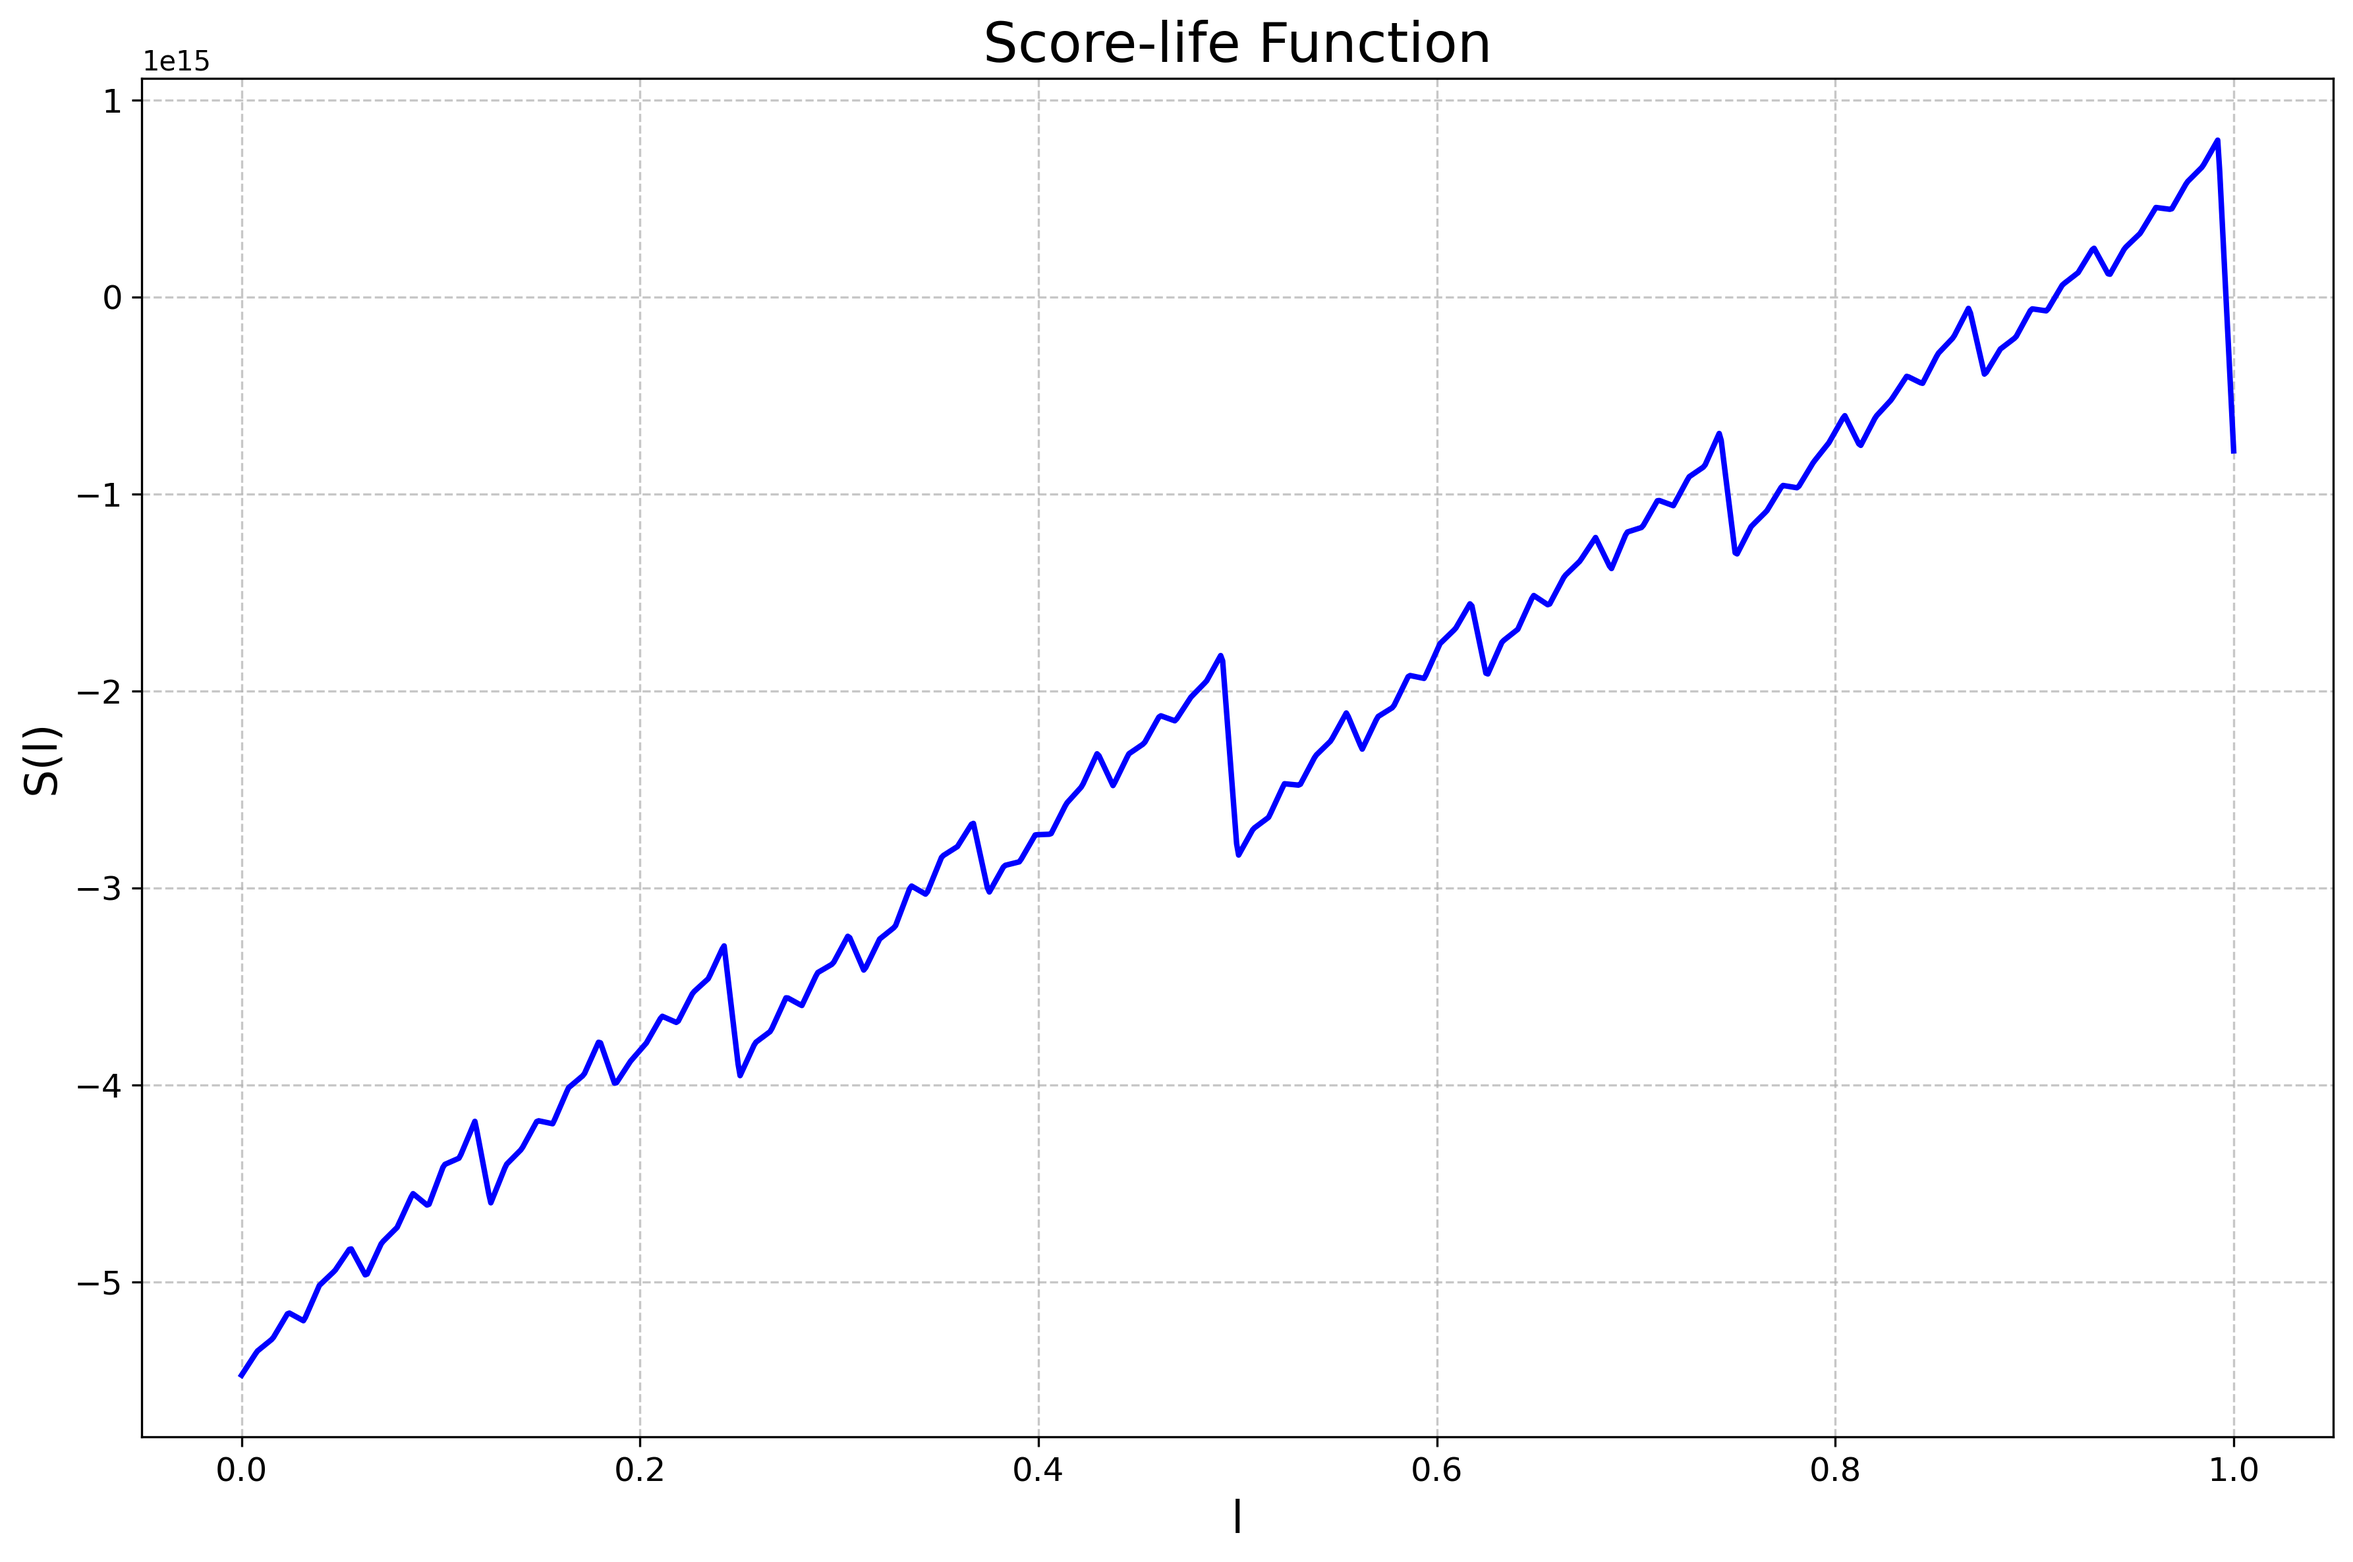
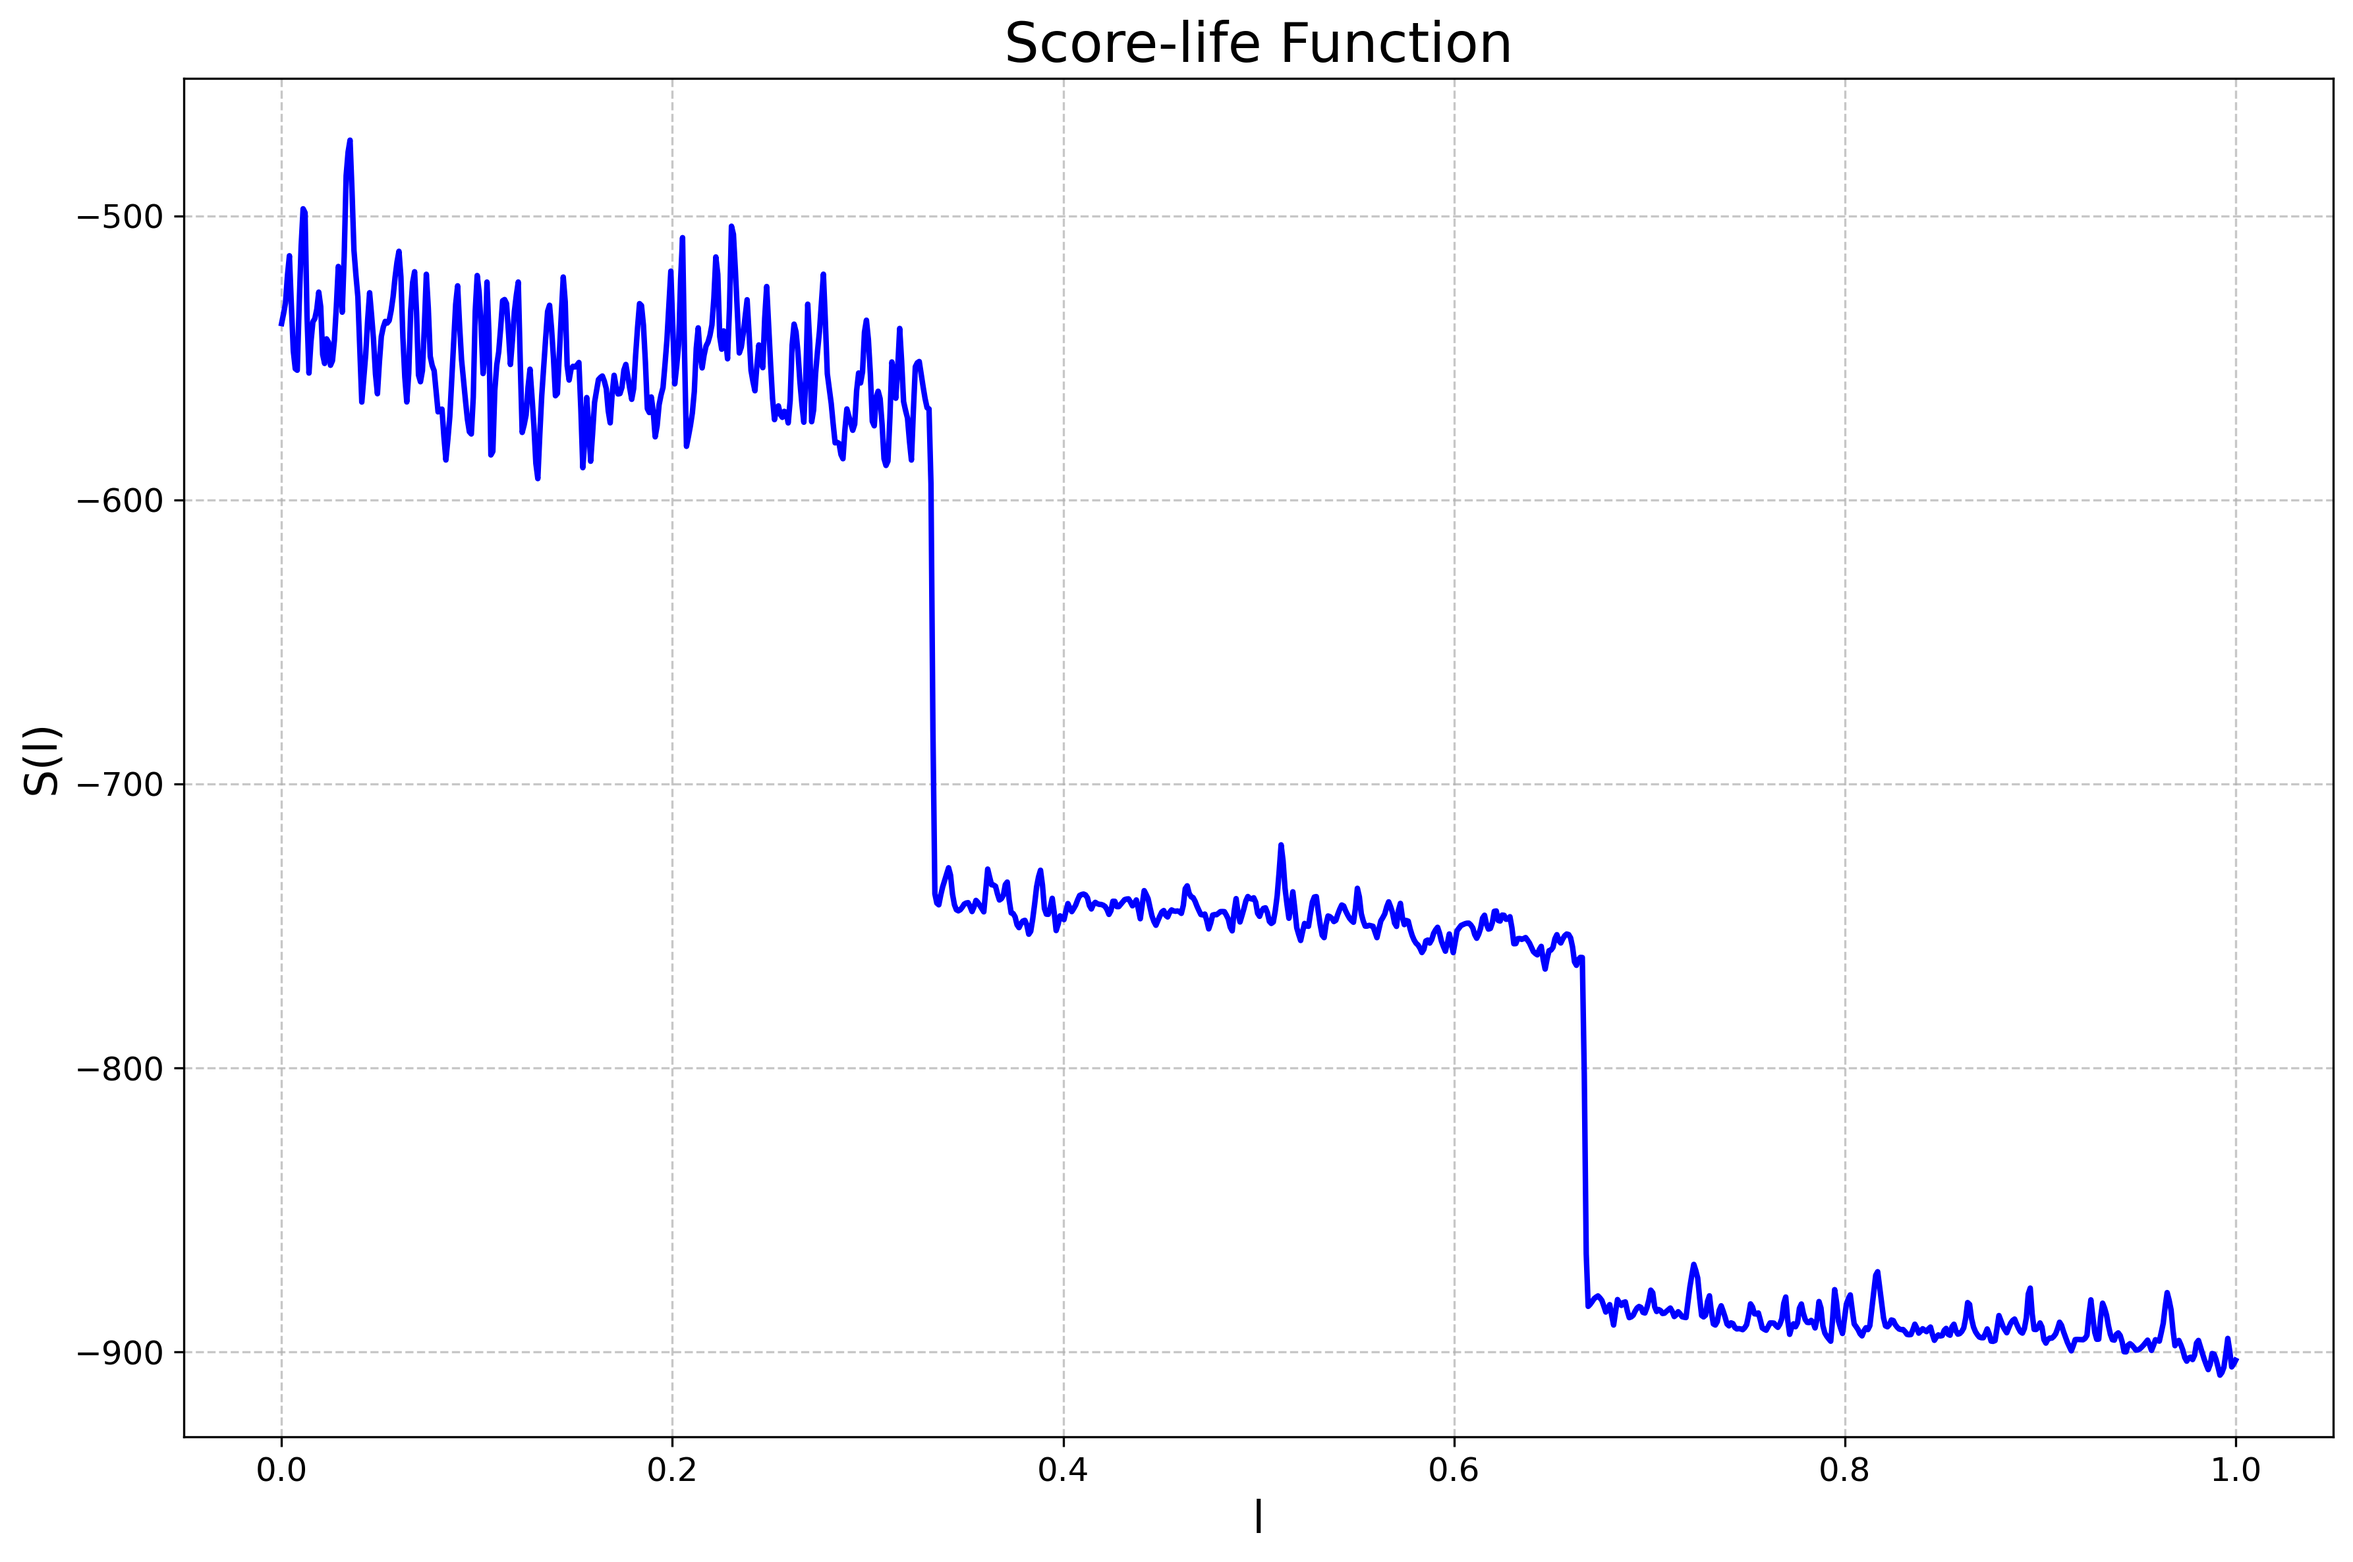
implemented baseline qlearning algorithm

diff --git a/src/benchmarks/q_learning.py b/src/benchmarks/q_learning.py
@@ -1,0 +1,107 @@
+# Import necessary libraries: NumPy, Gym, and Matplotlib.
+import time
+import numpy as np
+from src.environments.mountain_car import MountainCarEnv
+import matplotlib.pyplot as plt
+
+# Import and initialize Mountain Car Environment
+
+
+# Define Q-learning function
+def QLearning(env, learning, discount, epsilon, min_eps, episodes):
+    # Determine size of discretized state space
+    num_states = (env.observation_space.high - env.observation_space.low)*\
+                    np.array([10, 100])
+    print(num_states)
+    num_states = np.round(num_states, 0).astype(int) + 1
+    
+    # Initialize Q table
+    Q = np.random.uniform(low = -1, high = 1, 
+                          size = (num_states[0], num_states[1], 
+                                  env.action_space.n))
+    
+    # Initialize variables to track rewards
+    reward_list = []
+    ave_reward_list = []
+     # Calculate episodic reduction in epsilon
+    reduction = (epsilon - min_eps)/episodes
+    
+    # Run Q learning algorithm
+    for i in range(episodes):
+        # Initialize parameters
+        done = False
+        tot_reward, reward = 0,0
+        state = env.reset()
+        #print(state[0])
+        # Discretize state
+        #print(env.observation_space.low)
+        state_adj = (np.array(state[0] - env.observation_space.low))*np.array([10, 100])
+        state_adj = np.round(state_adj, 0).astype(int)
+        while done != True:   
+            # Render environment for last five episodes
+            if i >= (episodes - 20):
+                env.render()
+                
+            # Determine next action - epsilon greedy strategy
+            if np.random.random() < 1 - epsilon:
+                action = np.argmax(Q[state_adj[0], state_adj[1]]) 
+            else:
+                action = np.random.randint(0, env.action_space.n)
+                
+            # Get next state and reward
+            state2, reward, done, info = env.step(action) 
+            
+            # Discretize state2
+            state2_adj = (state2 - env.observation_space.low)*np.array([10, 100])
+            state2_adj = np.round(state2_adj, 0).astype(int)
+            #Allow for terminal states
+            if done and state2[0] >= 0.5:
+                Q[state_adj[0], state_adj[1], action] = reward
+                
+            # Adjust Q value for current state
+            else:
+                delta = learning*(reward + 
+                                 discount*np.max(Q[state2_adj[0], 
+                                                   state2_adj[1]]) - 
+                                 Q[state_adj[0], state_adj[1],action])
+                Q[state_adj[0], state_adj[1],action] += delta
+                                     
+            # Update variables
+            tot_reward += reward
+            state_adj = state2_adj
+            # Decay epsilon
+        if epsilon > min_eps:
+            epsilon -= reduction
+        
+        # Track rewards
+        reward_list.append(tot_reward)
+        
+        if (i+1) % 100 == 0:
+            ave_reward = np.mean(reward_list)
+            ave_reward_list.append(ave_reward)
+            reward_list = []
+            
+     #Finally, the function returns the list of average rewards per episode.
+   
+    return ave_reward_list,Q
+
+
+if __name__ =='__main__':
+    # Run Q-learning algorithm
+
+    env = MountainCarEnv()
+    env.reset()
+    start_time = time.time()
+    rewards,Q = QLearning(env, 0.2, 0.9, 0.8, 0, 5000)
+    end_time = time.time()
+    
+    # Plot Rewards
+    plt.plot(100*(np.arange(len(rewards)) + 1), rewards)
+    plt.xlabel('Episodes')
+    plt.ylabel('Average Reward')
+    plt.title('Average Reward vs Episodes')
+    plt.savefig('rewards.jpg')     
+    plt.show()
+    print(Q)
+    print("Time taken to compute Q-learning algorithm:", end_time-start_time)
+

diff --git a/src/utils/score_life_programming.py b/src/utils/score_life_programming.py
@@ -1,4 +1,4 @@
-import gymnasium as gym
+import gym
 import numpy as np
 import math
 import seaborn as sns
@@ -29,9 +29,39 @@ class ScoreLifeProgramming:
         self.gamma = gamma
         self.reference_state = reference_state
         self.N = N
+        self.action_dim = env.action_space.n
         self.j_max = j_max
         self.num_samples = num_samples
         self.score_function_reference_state = self._compute_faber_schauder_coefficients()
+
+    def _real_to_action_sequence_base(self, real_number, num_bits, base):
+        """
+        Maps a real number to its representation in the specified base.
+
+        :param real_number: A real number in the interval [0, 1).
+        :param num_bits: Number of digits to compute in the representation.
+        :param base: The base to convert to (e.g., 2 for binary, 3 for ternary).
+        :return: String representing the number in the specified base.
+        """
+        if real_number == 0:
+            return '.' + '0' * num_bits
+        elif real_number == 1:
+            return '.' + str(base-1) * num_bits
+        
+        result = '.'
+        current_number = real_number
+        
+        for _ in range(num_bits):
+            current_number *= base
+            digit = int(current_number)  # Get the integer part
+            result += str(digit)
+            current_number -= digit  # Subtract the integer part
+            
+        return result
+
+
+
+
 
 
     def _real_to_action_sequence(self, real_number,num_bits):
@@ -72,6 +102,7 @@ class ScoreLifeProgramming:
         self.env.set_state(state)
         for i in range(self.num_samples):
             nxt_state,reward = self.env.step(action)
+            print(nxt_state)
             avg_reward = avg_reward + reward
             self.env.set_state(state)
         avg_reward = avg_reward/self.num_samples
@@ -135,16 +166,25 @@ class ScoreLifeProgramming:
 
         self.env.reset()
         R = 0
-        action_sequence =self._real_to_action_sequence(l,num_bits = self.N)
+        #action_sequence =self._real_to_action_sequence(l,num_bits = self.N)
+        M = self.action_dim
+        action_sequence = self._real_to_action_sequence_base(l,self.N,M)
+        print(action_sequence)
         self.env.set_state(X)
         avg_R = 0
 
         for j in range(self.num_samples):
             for i in range(len(action_sequence)-1):
                 action = int(action_sequence[i+1])
-                state, reward  = self.env.step(action)
+                state, reward,done,truncated  = self.env.step(action)
+                reward = (state[0])**2 + reward
+                #print(reward)
                 #reward = custom_reward(state,action) optional to implement custom reward functions
                 R = (self.gamma**(i))*reward + R
+                if done:
+                    break
+                if truncated:
+                    break
         avg_R = avg_R + R
         avg_R = avg_R/self.num_samples
         

diff --git a/scratchpad/mountain_car.py b/scratchpad/mountain_car.py
@@ -1,0 +1,30 @@
+import numpy as np
+import time
+from src.environments.mountain_car import MountainCarEnv
+from src.utils.score_life_programming import ScoreLifeProgramming
+
+
+mountain_car_env =  MountainCarEnv()
+gamma = 0.65
+N = 100
+j_max = 9
+num_samples  = 1000
+reference_state = [0.0,-0.02]
+
+start_time = time.time()
+s = ScoreLifeProgramming(mountain_car_env,gamma, N,j_max,num_samples,reference_state)
+
+print(s.score_function_reference_state.coefficients)
+s.score_function_reference_state.visualize_fractal()
+end_time = time.time()
+print("Total Time taken to compute Score-life function of reference state:", end_time-start_time)
+print(s.score_function_reference_state.compute_optima_gradient_descent())
+
+# compute score-function for arbitrary state:
+# time_state_start = time.time()
+# state = 100
+# s.compute_score_function_one_step(state,1).visualize_fractal()
+# time_state_end = time.time()
+
+# print("Time taken to compute Score-life function a particular state:", time_state_end-time_state_start)
+

diff --git a/src/environments/mountain_car.py b/src/environments/mountain_car.py
@@ -1,19 +1,24 @@
 # src/environments/mountain_car.py
 
-import gym
+import gym 
 import numpy as np
 
 class MountainCarEnv(gym.Env):
     def __init__(self):
-        self.env = gym.make('MountainCar-v0')
+        self.env = gym.make('MountainCar-v0', render_mode="rgb_array")
         self.observation_space = self.env.observation_space
         self.action_space = self.env.action_space
 
     def reset(self):
         return self.env.reset()
+    
+    def set_state(self, state):
+        self.env.state = state 
 
     def step(self, action):
-        return self.env.step(action)
+        #print(self.env.step(action))
+        next_state, reward, done,truncated,_ = self.env.step(action)
+        return next_state, reward, done, truncated
 
     def render(self):
         return self.env.render()

diff --git a/src/utils/monte_carlo.py b/src/utils/monte_carlo.py
@@ -1,4 +1,4 @@
-import gymnasium as gym
+import gym
 import numpy as np
 import math
 import seaborn as sns
@@ -127,15 +127,16 @@ class Monte_Carlo:
 
 ### define variables:
         
-if __name__ == "main":
+if __name__ == "__main__":
     env = gym.make("CartPole-v1", render_mode="human")
     env2 = gym.make("CartPole-v1", render_mode="human")
+    env_name = "CartPole-v1"
     gamma = 0.5
     action_size = env.action_space.n
     episode_length = 500
     max_iterations = 500
     i = 0
-    N = 20
+    N = 2
     initial_state = np.array([0.5, 0,0,0])
     state = initial_state
     env2.reset()
